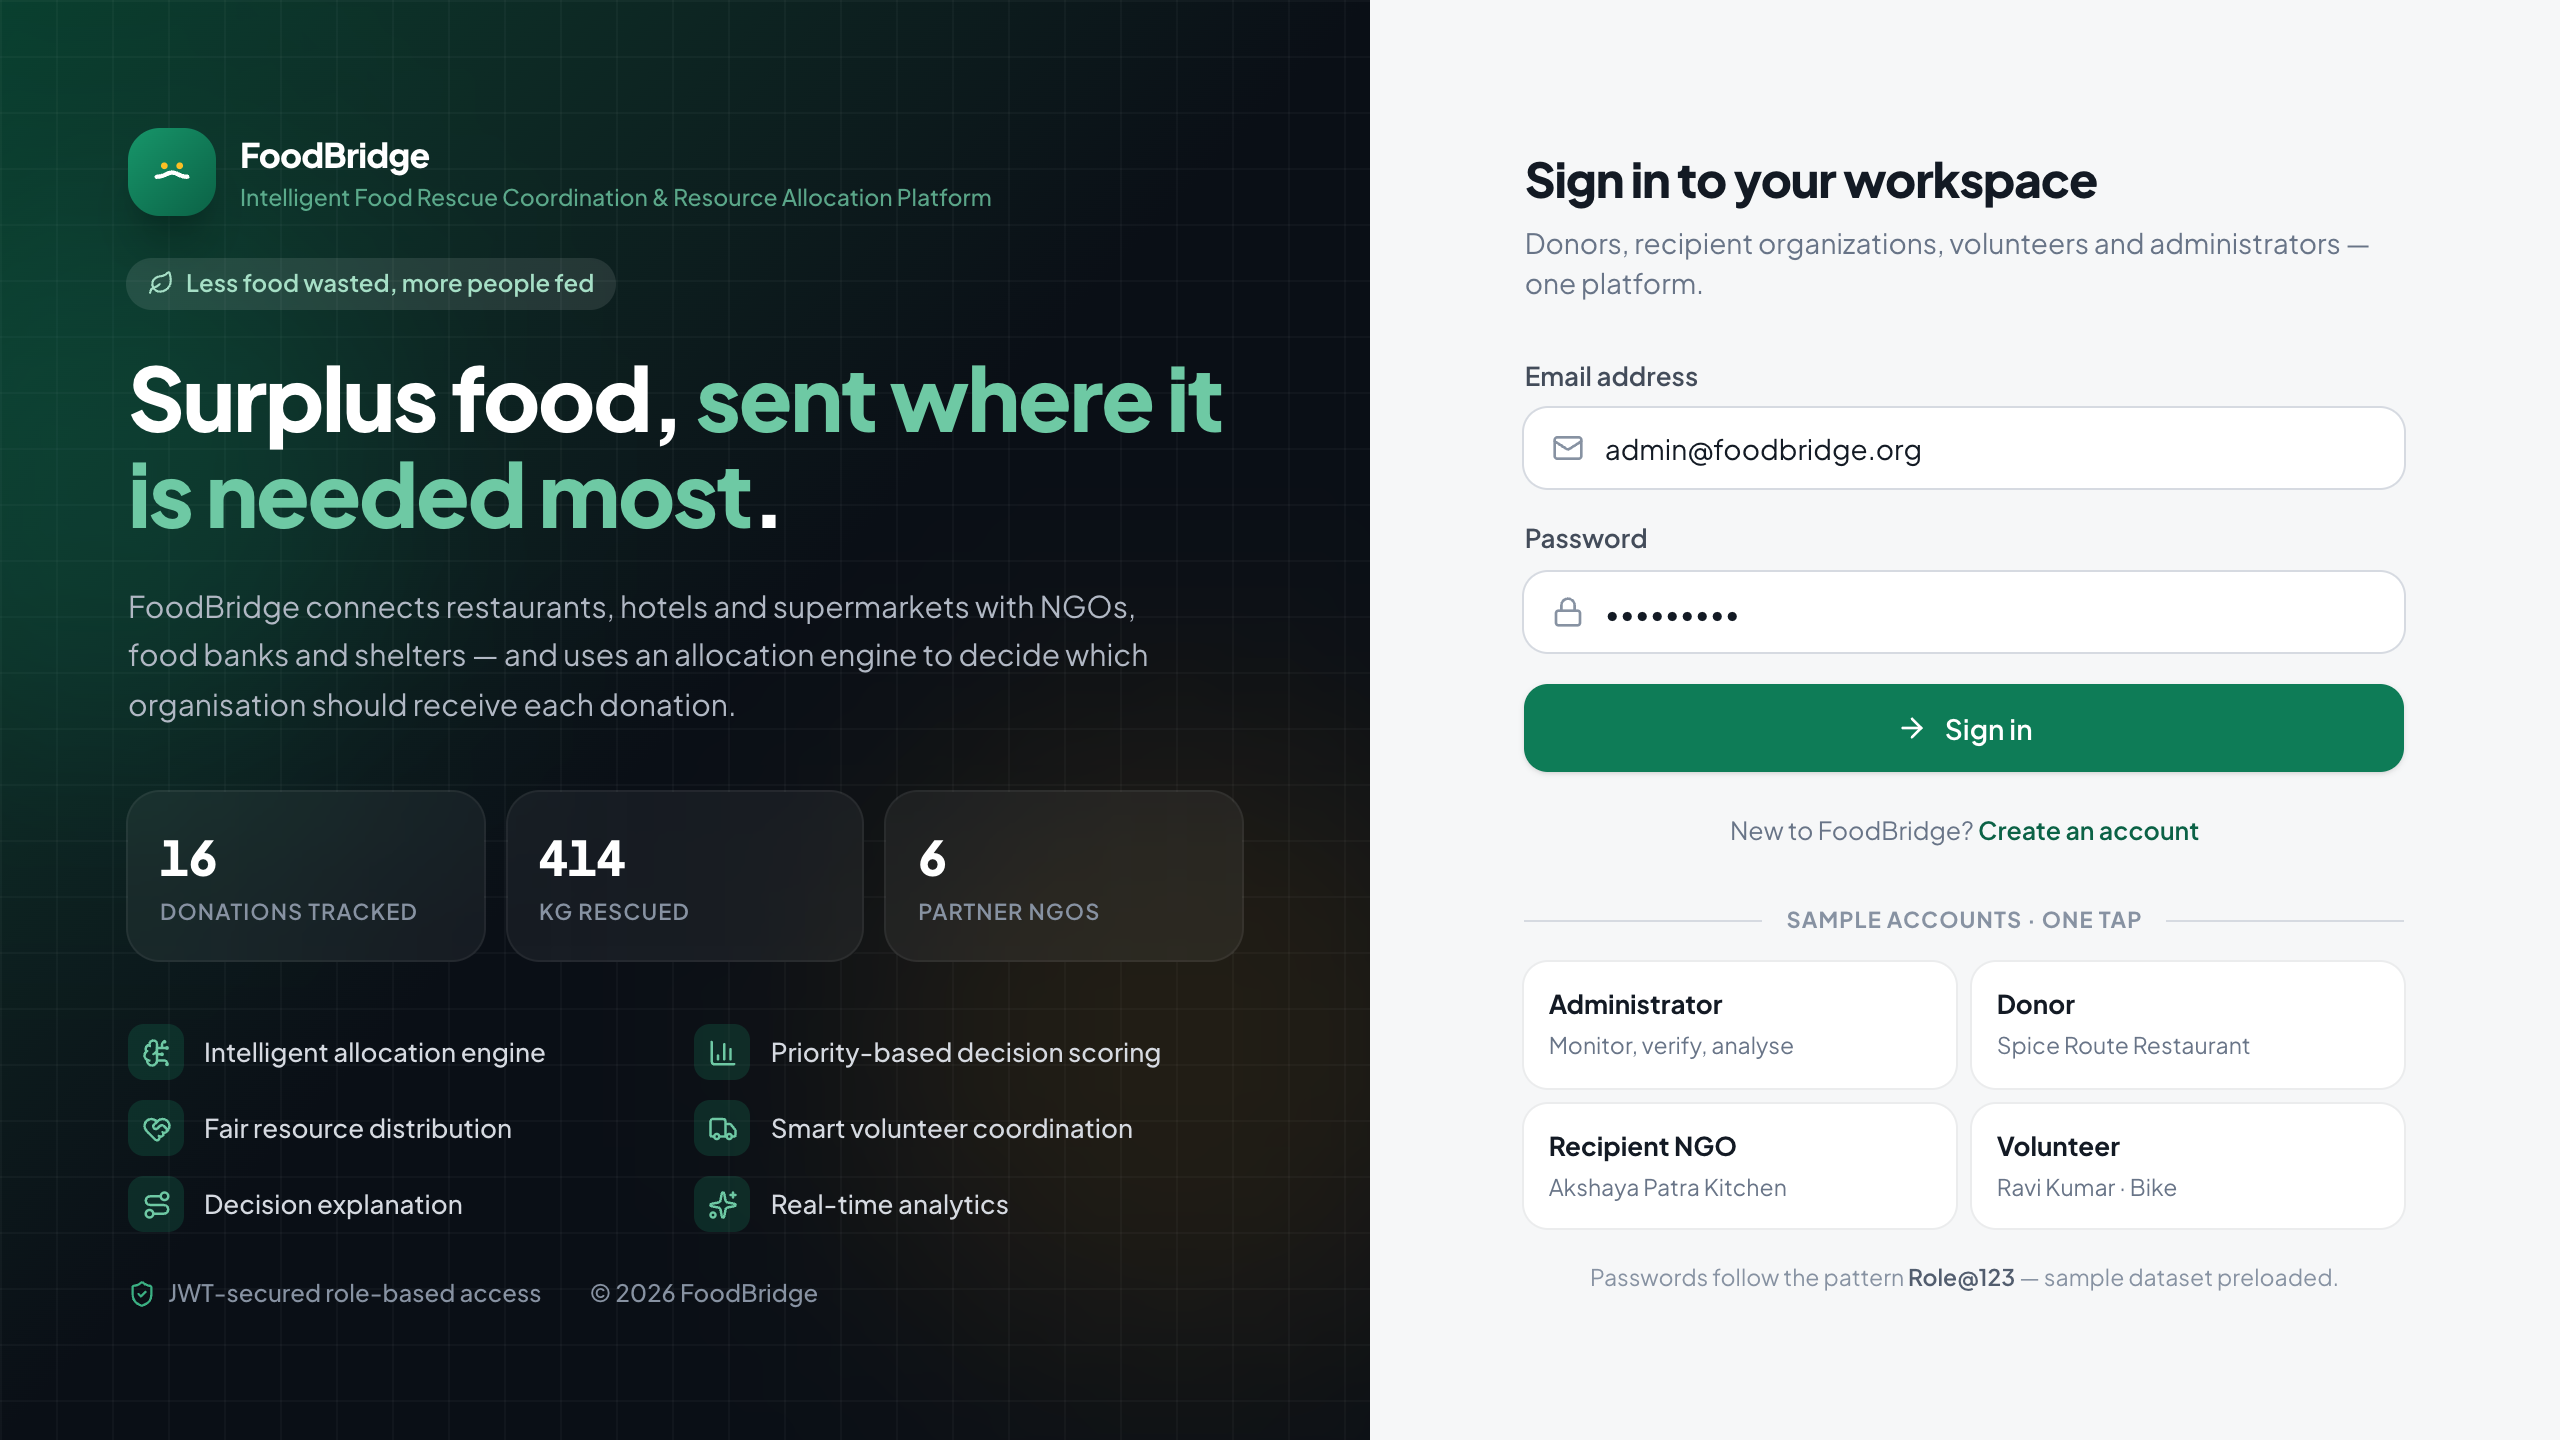
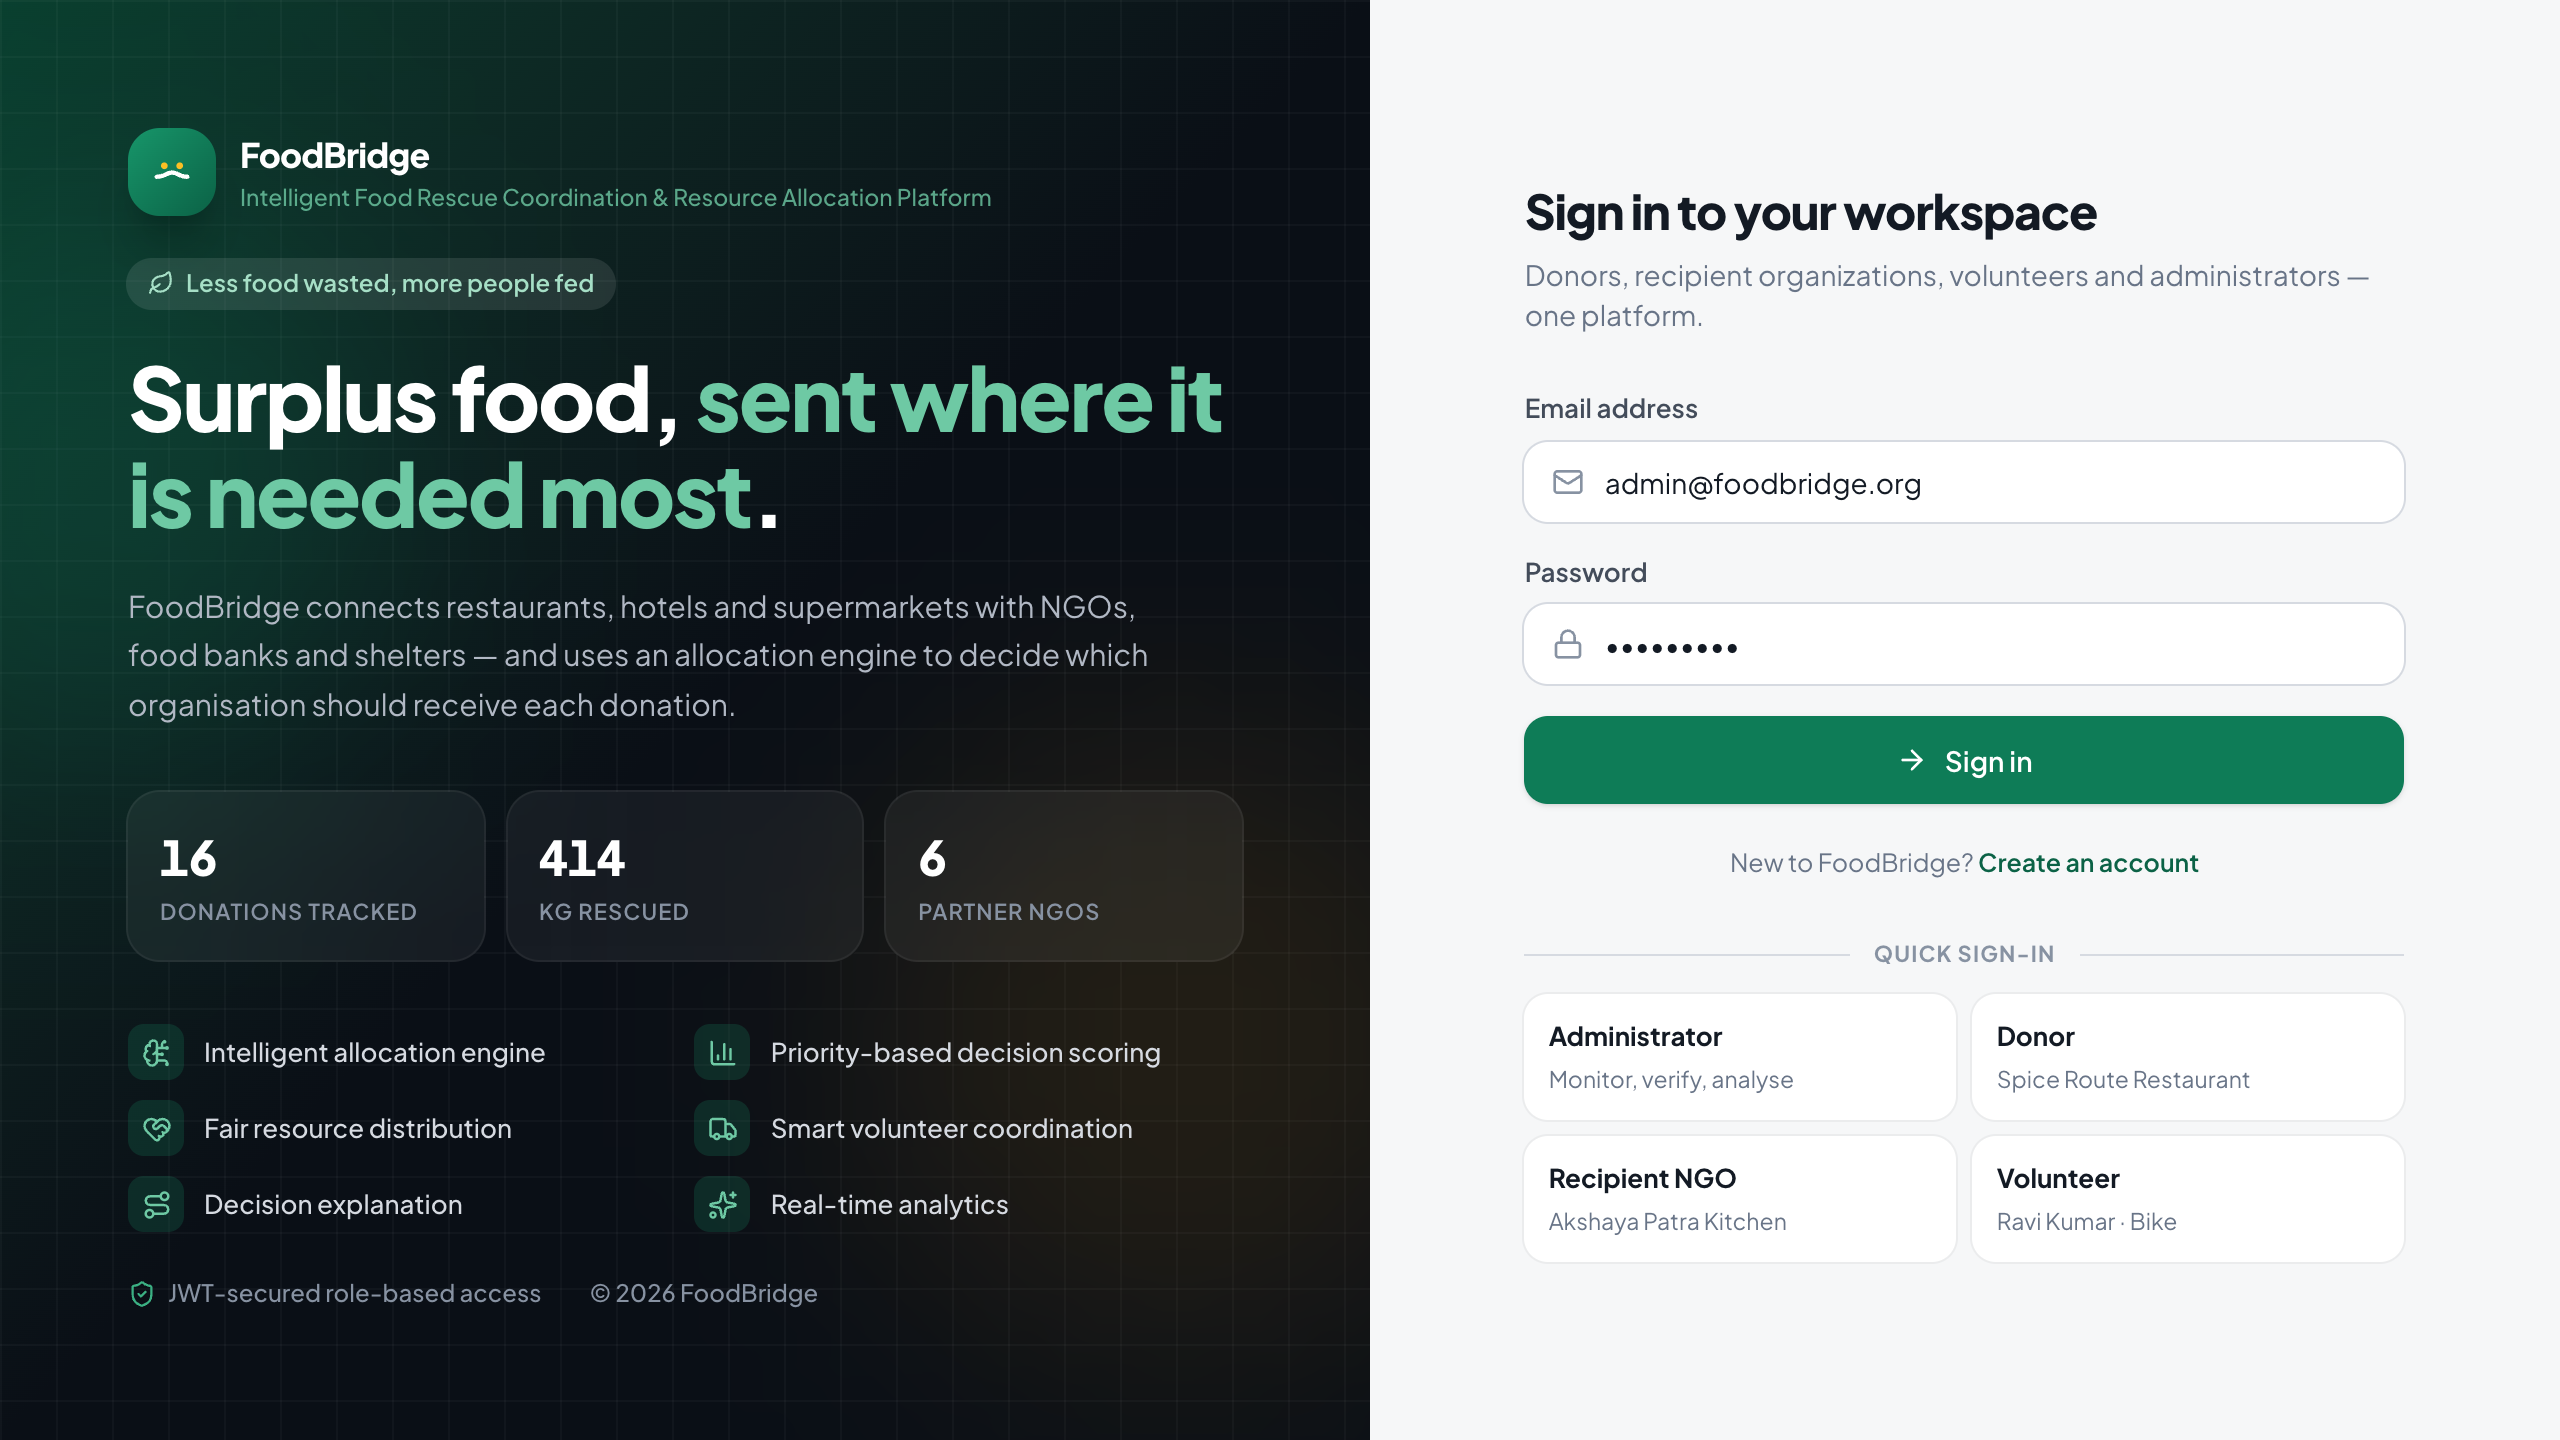
removed extra demo text from ui

diff --git a/frontend/src/pages/SystemPage.tsx b/frontend/src/pages/SystemPage.tsx
@@ -47,7 +47,7 @@ export function SystemPage() {
     setResetting(true)
     try {
       const { data } = await api.post<{ message: string; donations: number }>('/admin/sample-data/restore')
-      toast.success(`Sample data restored — ${data.donations} donations reloaded`)
+      toast.success(`Application data reset — ${data.donations} donations restored`)
       await load()
     } catch (error) {
       toast.error(errorMessage(error))
@@ -82,7 +82,7 @@ export function SystemPage() {
         subtitle="Every significant action is recorded for accountability. System health is reported live from the running services."
         actions={
           <button className="btn-secondary" onClick={() => void resetDemo()} disabled={resetting}>
-            <RotateCcw size={15} className={resetting ? 'animate-spin' : ''} /> Restore sample data
+            <RotateCcw size={15} className={resetting ? 'animate-spin' : ''} /> Reset application data
           </button>
         }
       />

diff --git a/frontend/src/pages/Login.tsx b/frontend/src/pages/Login.tsx
@@ -230,7 +230,7 @@ export function LoginPage() {
           <div className="mt-7">
             <div className="mb-3 flex items-center gap-3">
               <div className="h-px flex-1 bg-ink-200" />
-              <span className="text-[11px] font-bold uppercase tracking-wider text-ink-400">Sample accounts · one tap</span>
+              <span className="text-[11px] font-bold uppercase tracking-wider text-ink-400">Quick sign-in</span>
               <div className="h-px flex-1 bg-ink-200" />
             </div>
             <div className="grid gap-2 sm:grid-cols-2">
@@ -250,9 +250,6 @@ export function LoginPage() {
                 </button>
               ))}
             </div>
-            <p className="mt-4 text-center text-[11.5px] text-ink-400">
-              Passwords follow the pattern <span className="font-semibold text-ink-600">Role@123</span> — sample dataset preloaded.
-            </p>
           </div>
         </motion.div>
       </div>

diff --git a/backend/src/main/java/com/foodbridge/service/DataSeeder.java b/backend/src/main/java/com/foodbridge/service/DataSeeder.java
@@ -510,7 +510,7 @@ public class DataSeeder {
     private void seedAuditTrail(User admin, List<Donor> donors, List<RecipientOrganization> recipients,
                                 List<Volunteer> volunteers) {
         LocalDateTime now = LocalDateTime.now();
-        audit(admin, "SYSTEM", "PLATFORM_INITIALISED", "Sample dataset loaded", now.minusDays(13));
+        audit(admin, "SYSTEM", "PLATFORM_INITIALISED", "Platform initialised and reference data loaded", now.minusDays(13));
         audit(admin, "ADMIN", "ORGANIZATION_VERIFIED", "Verified Chennai Food Bank",
                 now.minusDays(12).minusHours(4));
         audit(donors.get(0).getUser(), "DONATION", "DONATION_CREATED",

diff --git a/backend/src/main/java/com/foodbridge/service/DemoService.java b/backend/src/main/java/com/foodbridge/service/DemoService.java
@@ -101,7 +101,7 @@ public class DemoService {
         dataSeeder.seedAll();
         log.info("Demo dataset reset and re-seeded");
         Map<String, Object> result = new LinkedHashMap<>();
-        result.put("message", "Sample dataset restored");
+        result.put("message", "Application data reset");
         result.put("donations", donationRepository.count());
         result.put("recipients", recipientRepository.count());
         result.put("volunteers", volunteerRepository.count());
